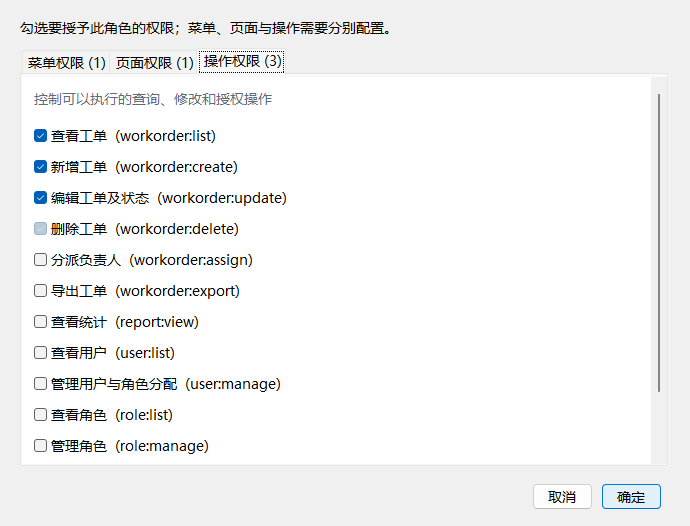
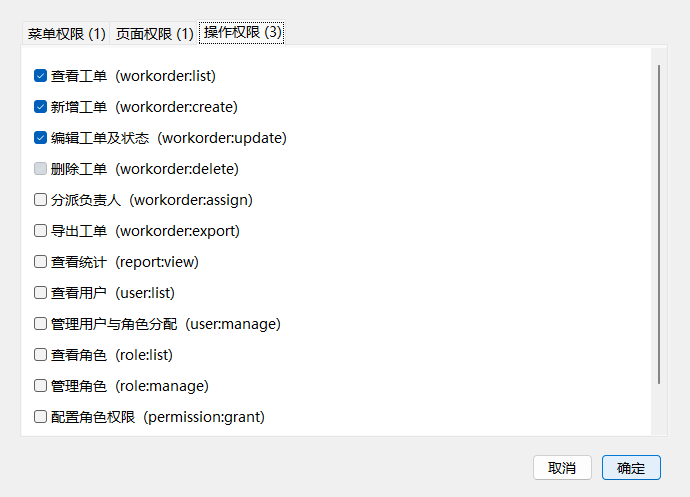
refine: simplify course UI and assignment scope

Changed region(s): [[0.0304, 0.0302, 0.5783, 0.8753], [0.7913, 0.9054, 0.9739, 0.9658]]

diff --git a/src/main/java/edu/campus/rbac/ui/CampusApplication.java b/src/main/java/edu/campus/rbac/ui/CampusApplication.java
@@ -173,36 +173,43 @@ public final class CampusApplication {
         revision++;
         main.removeAll();
         JPanel heading = new JPanel(new BorderLayout(0, 8)); heading.setOpaque(false);
-        JLabel label = new JLabel(title); label.setFont(label.getFont().deriveFont(Font.BOLD, 24));
+        JLabel label = new JLabel(title); label.setFont(label.getFont().deriveFont(Font.BOLD, 22));
         label.setForeground(INK); heading.add(label, BorderLayout.NORTH);
-        JLabel subtitle = new JLabel(description); subtitle.setForeground(MUTED);
-        heading.add(subtitle, BorderLayout.SOUTH); main.add(heading, BorderLayout.NORTH);
+        if (!description.isBlank()) {
+            JLabel subtitle = new JLabel(description); subtitle.setForeground(MUTED);
+            heading.add(subtitle, BorderLayout.SOUTH);
+        }
+        main.add(heading, BorderLayout.NORTH);
         JPanel body = new JPanel(new BorderLayout(0, 12)); body.setOpaque(false);
         main.add(body, BorderLayout.CENTER); main.revalidate(); main.repaint(); return body;
     }
 
     private void dashboard() {
-        JPanel body = page("欢迎，" + session.user().displayName(), "选择左侧菜单开始工作。当前权限来自角色的权限并集。");
-        JPanel identity = card("当前身份", "账号：" + session.user().username() + "    角色："
-                + roleDescription()
-                + "\n已授予 " + session.permissions().size() + " 项权限。权限调整后，点击左下方“刷新权限”更新界面。");
-        identity.setName("dashboard.identity"); body.add(identity, BorderLayout.NORTH);
-        JPanel capabilities = new JPanel(new GridLayout(2, 2, 14, 14)); capabilities.setOpaque(false);
+        JPanel body = page("工作台", "");
+        JPanel identity = card("当前账号", session.user().username() + "  ·  " + roleDescription()
+                + "  ·  " + session.permissions().size() + " 项权限");
+        identity.setName("dashboard.identity");
+        JPanel capabilities = new JPanel(new GridLayout(2, 2, 10, 10)); capabilities.setOpaque(false);
         capabilities.add(card("可访问页面", capabilityText("page:")));
         capabilities.add(card("工单协作", capabilityText("workorder:")));
         capabilities.add(card("用户与角色管理", capabilityText("user:", "role:", "permission:")));
         capabilities.add(card("统计与审计", capabilityText("report:", "audit:")));
-        body.add(capabilities);
-        JLabel help = new JLabel("提示：灰色按钮表示当前账号无权执行；将鼠标停留在按钮上可查看原因。");
-        help.setForeground(MUTED); body.add(help, BorderLayout.SOUTH);
+        JPanel overview = new JPanel(); overview.setOpaque(false);
+        overview.setLayout(new BoxLayout(overview, BoxLayout.Y_AXIS));
+        identity.setAlignmentX(Component.LEFT_ALIGNMENT);
+        identity.setMaximumSize(new Dimension(Integer.MAX_VALUE, identity.getPreferredSize().height));
+        capabilities.setAlignmentX(Component.LEFT_ALIGNMENT);
+        capabilities.setMaximumSize(new Dimension(Integer.MAX_VALUE, capabilities.getPreferredSize().height));
+        overview.add(identity); overview.add(Box.createVerticalStrut(10)); overview.add(capabilities);
+        body.add(overview, BorderLayout.NORTH);
     }
 
     private String capabilityText(String... prefixes) {
         List<String> labels = session.permissions().stream().sorted()
                 .filter(code -> Arrays.stream(prefixes).anyMatch(code::startsWith))
                 .map(code -> PERMISSION_LABELS.getOrDefault(code, "其他已授予能力"))
-                .distinct().map(label -> "• " + label).toList();
-        return labels.isEmpty() ? "当前角色暂未获得此类能力。" : String.join("\n", labels);
+                .distinct().toList();
+        return labels.isEmpty() ? "无" : String.join(" · ", labels);
     }
 
     private String roleDescription() {
@@ -212,7 +219,7 @@ public final class CampusApplication {
     }
 
     private void workOrders() {
-        JPanel body = page("工单管理", "搜索、分派与跟踪校园事务。选择表格中的一条工单后操作。");
+        JPanel body = page("工单管理", "");
         JPanel toolbar = toolbar(), search = toolbar(); JTextField query = new JTextField(22);
         query.setName("workorders.query"); query.setToolTipText("搜索工单标题或内容，按回车查询");
         JComboBox<String> filter = new JComboBox<>(new String[]{"全部状态", "待处理", "处理中", "已完成", "已关闭"});
@@ -273,12 +280,12 @@ public final class CampusApplication {
         controls.add(search); controls.add(toolbar);
         String capabilities = session.permissions().stream().filter(code -> code.startsWith("workorder:"))
                 .sorted().map(code -> PERMISSION_LABELS.getOrDefault(code, "其他工单能力")).collect(java.util.stream.Collectors.joining(" · "));
-        JLabel ability = new JLabel("当前可操作：" + (capabilities.isEmpty() ? "暂无工单权限" : capabilities));
+        JLabel ability = new JLabel("可操作：" + (capabilities.isEmpty() ? "无" : capabilities));
         ability.setName("workorders.capabilities"); ability.setForeground(ACCENT); ability.setBorder(new EmptyBorder(8, 8, 4, 8));
         JPanel abilityRow = new JPanel(new BorderLayout()); abilityRow.setOpaque(false); abilityRow.add(ability); controls.add(abilityRow);
         body.add(controls, BorderLayout.NORTH); body.add(new JScrollPane(table));
         JTextArea detail = new JTextArea(3, 30); detail.setEditable(false); detail.setLineWrap(true); detail.setWrapStyleWord(true);
-        detail.setName("workorders.detail"); detail.setText("选择一条工单，查看完整描述。");
+        detail.setName("workorders.detail"); detail.setText("请选择工单");
         detail.setBorder(new EmptyBorder(8, 10, 8, 10));
         JLabel detailHeading = new JLabel("工单详情"); detailHeading.setBorder(new EmptyBorder(0, 0, 6, 0));
         table.getSelectionModel().addListSelectionListener(e -> {
@@ -287,7 +294,7 @@ public final class CampusApplication {
                 WorkOrder selected = rows.get(table.convertRowIndexToModel(index));
                 detail.setText(selected.content()); detail.setCaretPosition(0);
                 detailHeading.setText("工单 #" + selected.id() + " · " + selected.title() + " · " + selected.status());
-            } else { detail.setText("选择一条工单，查看完整描述。"); detailHeading.setText("工单详情"); }
+            } else { detail.setText("请选择工单"); detailHeading.setText("工单详情"); }
         });
         JPanel detailPanel = new JPanel(new BorderLayout()); detailPanel.setOpaque(false);
         detailPanel.add(detailHeading, BorderLayout.NORTH); detailPanel.add(new JScrollPane(detail));
@@ -309,7 +316,7 @@ public final class CampusApplication {
     }
 
     private void users() {
-        JPanel body = page("用户管理", "管理账号、启停状态及用户角色。系统会保护最后一个完整管理员。");
+        JPanel body = page("用户管理", "");
         JPanel toolbar = toolbar(); DefaultTableModel model = model("编号", "用户名", "显示名称", "状态", "角色");
         JTable table = table(model); List<User> rows = new ArrayList<>(); String token = session.token();
         Runnable reload = () -> run(() -> services.users().list(token), data -> {
@@ -357,12 +364,12 @@ public final class CampusApplication {
     }
 
     private void roles() {
-        JPanel body = page("角色与权限", "通过角色关联权限。菜单、页面和操作权限分别授权。");
+        JPanel body = page("角色与权限", "");
         JPanel toolbar = toolbar(); DefaultTableModel model = model("编号", "角色编码", "角色名称");
         JTable table = table(model); table.setName("roles.table"); List<Role> rows = new ArrayList<>(); String token = session.token();
         JPanel permissionDetail = new JPanel(new BorderLayout(0, 12)); permissionDetail.setBackground(Color.WHITE);
         permissionDetail.setBorder(new EmptyBorder(16, 16, 16, 16));
-        JLabel summary = new JLabel("选择角色，查看已授予的权限"); summary.setName("roles.permission.summary");
+        JLabel summary = new JLabel("请选择角色"); summary.setName("roles.permission.summary");
         summary.setForeground(INK); summary.setFont(summary.getFont().deriveFont(Font.BOLD, 16));
         permissionDetail.add(summary, BorderLayout.NORTH);
         long[] selectionVersion = {0};
@@ -373,13 +380,13 @@ public final class CampusApplication {
             Component old = ((BorderLayout) permissionDetail.getLayout()).getLayoutComponent(BorderLayout.CENTER);
             if (old != null) permissionDetail.remove(old);
             if (selected < 0 || table.convertRowIndexToModel(selected) >= rows.size()) {
-                summary.setText("选择角色，查看已授予的权限"); permissionDetail.revalidate(); permissionDetail.repaint(); return;
+                summary.setText("请选择角色"); permissionDetail.revalidate(); permissionDetail.repaint(); return;
             }
             Role role = rows.get(table.convertRowIndexToModel(selected));
             summary.setText(role.name() + " · 正在读取权限…");
             run(() -> new PermissionChoices(services.roles().permissions(token), services.roles().permissionIds(token, role.id())), data -> {
                 if (selectionVersion[0] != expected) return; // 快速切换角色时，丢弃前一角色的数据。
-                summary.setText(role.name() + " · 已授予 " + data.selected().size() + " 项权限");
+                summary.setText(role.name() + " · " + data.selected().size() + " 项权限");
                 permissionDetail.add(permissionTabs(data, false, new LinkedHashMap<>()), BorderLayout.CENTER);
                 permissionDetail.revalidate(); permissionDetail.repaint();
             });
@@ -420,10 +427,7 @@ public final class CampusApplication {
                 Map<Long, JCheckBox> boxes = new LinkedHashMap<>();
                 JTabbedPane tabs = permissionTabs(data, true, boxes); tabs.setPreferredSize(new Dimension(650, 420));
                 tabs.setSelectedIndex(2);
-                JPanel editor = new JPanel(new BorderLayout(0, 10));
-                editor.add(new JLabel("勾选要授予此角色的权限；菜单、页面与操作需要分别配置。"), BorderLayout.NORTH);
-                editor.add(tabs);
-                if (dialog("配置权限 · " + role.name(), editor)) {
+                if (dialog("配置权限 · " + role.name(), tabs)) {
                     Set<Long> ids = checked(boxes);
                     change(() -> { services.roles().setPermissions(token, role.id(), ids); return true; }, reload);
                 }
@@ -438,11 +442,9 @@ public final class CampusApplication {
         JTabbedPane tabs = new JTabbedPane(); tabs.setName(editable ? "permissions.editor.groups" : "roles.permission.groups");
         String[] types = {"MENU", "PAGE", "ACTION"};
         String[] titles = {"菜单权限", "页面权限", "操作权限"};
-        String[] hints = {"控制左侧菜单是否显示", "控制能否进入相应页面", "控制可以执行的查询、修改和授权操作"};
         for (int i = 0; i < types.length; i++) {
             String type = types[i]; JPanel list = choicesPanel(); list.setBackground(Color.WHITE);
             list.setBorder(new EmptyBorder(12, 12, 12, 12)); list.setName("permissions.group." + type);
-            JLabel hint = new JLabel(hints[i]); hint.setForeground(MUTED); list.add(hint); list.add(Box.createVerticalStrut(12));
             int count = 0;
             for (Permission permission : data.permissions()) {
                 if (!type.equals(permission.type())) continue;
@@ -465,7 +467,7 @@ public final class CampusApplication {
     }
 
     private void reports() {
-        JPanel body = page("工单统计", "实时查看各处理状态下的工单数量。");
+        JPanel body = page("工单统计", "");
         JPanel toolbar = toolbar(); DefaultTableModel model = model("状态", "数量");
         String token = session.token();
         Runnable reload = () -> run(() -> services.reports().statistics(token), data -> {
@@ -477,7 +479,7 @@ public final class CampusApplication {
     }
 
     private void audit() {
-        JPanel body = page("审计日志", "追踪登录、授权变更、业务操作和被拒绝的请求。");
+        JPanel body = page("审计日志", "");
         JPanel toolbar = toolbar(); JTextField query = new JTextField(25);
         toolbar.add(new JLabel("关键字")); toolbar.add(query);
         DefaultTableModel model = model("编号", "时间", "操作人", "操作", "对象", "结果", "说明");
@@ -566,9 +568,9 @@ public final class CampusApplication {
         panel.setBackground(Color.WHITE); return panel;
     }
     private static JPanel card(String title, String description) {
-        JPanel panel = new JPanel(new BorderLayout(0, 10)); panel.setBackground(Color.WHITE);
-        panel.setBorder(new EmptyBorder(14, 18, 14, 18));
-        JLabel heading = new JLabel(title); heading.setFont(heading.getFont().deriveFont(Font.BOLD, 16)); heading.setForeground(INK);
+        JPanel panel = new JPanel(new BorderLayout(0, 6)); panel.setBackground(Color.WHITE);
+        panel.setBorder(new EmptyBorder(12, 14, 12, 14));
+        JLabel heading = new JLabel(title); heading.setFont(heading.getFont().deriveFont(Font.BOLD, 15)); heading.setForeground(INK);
         JTextArea text = new JTextArea(description); text.setEditable(false); text.setLineWrap(true); text.setWrapStyleWord(true);
         text.setForeground(MUTED); text.setOpaque(false); panel.add(heading, BorderLayout.NORTH); panel.add(text); return panel;
     }

diff --git a/src/test/java/edu/campus/rbac/AcceptanceTest.java b/src/test/java/edu/campus/rbac/AcceptanceTest.java
@@ -24,7 +24,17 @@ class AcceptanceTest {
     @Test void TC02_adminCanLogin(){Session s=services.authentication().login("admin","Demo@12345".toCharArray());assertTrue(s.permissions().contains("permission:grant"));assertFalse(s.token().isBlank());}
     @Test void TC03to05_viewerCanReadButCannotCreateOrDelete(){String t=login("viewer");List<WorkOrder> before=services.workOrders().list(t,"","");assertFalse(before.isEmpty());assertThrows(DomainException.class,()->services.workOrders().create(t,new WorkOrderInput("拒绝","test")));assertThrows(DomainException.class,()->services.workOrders().delete(t,before.get(0).id()));assertEquals(before,services.workOrders().list(t,"",""));}
     @Test void TC06to07_staffCreatePersistsButCannotDelete(){String t=login("staff");WorkOrder w=services.workOrders().create(t,new WorkOrderInput("维修灯具","教室 A101"));assertThrows(DomainException.class,()->services.workOrders().delete(t,w.id()));Services.Bundle reopened=ApplicationFactory.open(db);String other=reopened.authentication().login("staff","Demo@12345".toCharArray()).token();assertTrue(reopened.workOrders().list(other,"维修灯具","").stream().anyMatch(x->x.id()==w.id()));}
-    @Test void TC08to09_managerAssignsButCannotGrant(){String manager=login("manager");long id=services.workOrders().list(manager,"","").get(0).id();User assignee=services.workOrders().assignees(manager).stream().filter(u->u.username().equals("staff")).findFirst().orElseThrow();services.workOrders().assign(manager,id,assignee.id());assertEquals(assignee.id(),services.workOrders().list(manager,Long.toString(id),"").get(0).assigneeId());assertThrows(DomainException.class,()->services.roles().setPermissions(manager,1,Set.of()));}
+    @Test void TC08to09_managerAssignsButCannotGrantOrAssignSystemAdministrator(){
+        String manager=login("manager"),admin=login("admin");
+        long id=services.workOrders().list(manager,"","").get(0).id();
+        User assignee=services.workOrders().assignees(manager).stream().filter(u->u.username().equals("staff")).findFirst().orElseThrow();
+        assertFalse(services.workOrders().assignees(manager).stream().anyMatch(u->u.username().equals("admin")));
+        User systemAdministrator=services.users().list(admin).stream().filter(u->u.username().equals("admin")).findFirst().orElseThrow();
+        services.workOrders().assign(manager,id,assignee.id());
+        assertEquals(assignee.id(),services.workOrders().list(manager,Long.toString(id),"").get(0).assigneeId());
+        assertThrows(DomainException.class,()->services.workOrders().assign(manager,id,systemAdministrator.id()));
+        assertThrows(DomainException.class,()->services.roles().setPermissions(manager,1,Set.of()));
+    }
     @Test void TC10to13_grantAndRevokeApplyToExistingSession(){
         String a=login("admin"),s=login("staff");
         long r=role(a,"STAFF"),p=permission(a,"workorder:delete");

diff --git a/src/main/java/edu/campus/rbac/service/BusinessServices.java b/src/main/java/edu/campus/rbac/service/BusinessServices.java
@@ -34,16 +34,29 @@ public final class BusinessServices implements Services.WorkOrders, Services.Rep
     }
     @Override public List<User> assignees(String token){
         return access.read(token,"workorder:assignees","users",Set.of("workorder:assign"),(c,actor)->{
+            boolean canAssignSystemManagers=hasSystemManagement(c,actor);
             List<User> result=new ArrayList<>();try(PreparedStatement p=c.prepareStatement("SELECT id,username,display_name,active FROM users WHERE active=1 ORDER BY id");ResultSet r=p.executeQuery()){
-                while(r.next())result.add(new User(r.getLong(1),r.getString(2),r.getString(3),true,List.of()));}return List.copyOf(result);
+                while(r.next()){
+                    long candidate=r.getLong(1);
+                    if(canAssignSystemManagers||!hasSystemManagement(c,candidate))
+                        result.add(new User(candidate,r.getString(2),r.getString(3),true,List.of()));
+                }}return List.copyOf(result);
         });
     }
     @Override public void assign(String token,long id,Long assigneeId){
         access.write(token,"workorder:assign",Long.toString(id),Set.of("workorder:assign"),(c,actor)->{
-            if(assigneeId!=null)try(PreparedStatement p=c.prepareStatement("SELECT id FROM users WHERE id=? AND active=1")){p.setLong(1,assigneeId);try(ResultSet r=p.executeQuery()){if(!r.next())throw new DomainException("负责人不存在或已停用");}}
+            if(assigneeId!=null)try(PreparedStatement p=c.prepareStatement("SELECT id FROM users WHERE id=? AND active=1")){p.setLong(1,assigneeId);try(ResultSet r=p.executeQuery()){
+                if(!r.next())throw new DomainException("负责人不存在或已停用");
+                if(!hasSystemManagement(c,actor)&&hasSystemManagement(c,assigneeId))
+                    throw new DomainException("没有权限向系统管理员分派工单");
+            }}
             try(PreparedStatement p=c.prepareStatement("UPDATE work_orders SET assignee_id=?,updated_at=? WHERE id=?")){
                 if(assigneeId==null)p.setNull(1,Types.INTEGER);else p.setLong(1,assigneeId);p.setString(2,Instant.now().toString());p.setLong(3,id);changed(p.executeUpdate());}return null;
         });
+    }
+    /** 依据实际授权识别系统管理能力，不依赖 ADMIN 角色名称。 */
+    private static boolean hasSystemManagement(Connection connection,long userId)throws SQLException{
+        return Access.effectivePermissions(connection,userId).contains("permission:grant");
     }
     @Override public void changeStatus(String token,long id,String status){
         access.write(token,"workorder:status",Long.toString(id),Set.of("workorder:update"),(c,actor)->{

diff --git a/docs/TEST_REPORT.md b/docs/TEST_REPORT.md
@@ -62,7 +62,7 @@ java "-Dfile.encoding=UTF-8" -jar target\campus-work-order-rbac.jar --help
 | TC05 VIEWER 不能删除 | 通过 | AcceptanceTest |
 | TC06 STAFF 新增并持久 | 通过 | AcceptanceTest 重开数据库验证 |
 | TC07 STAFF 不能删除 | 通过 | AcceptanceTest |
-| TC08 MANAGER 分派 | 通过 | AcceptanceTest |
+| TC08 MANAGER 分派 | 通过 | AcceptanceTest：可分派 STAFF，负责人列表不含 ADMIN，直调 Service 分派 ADMIN 被拒绝 |
 | TC09 MANAGER 不能配置权限 | 通过 | AcceptanceTest、SecurityTest |
 | TC10 ADMIN 给 STAFF 增加删除权 | 通过 | AcceptanceTest、GuiDatabaseTest 权限弹窗 |
 | TC11 刷新/旧会话获得新增权限 | 通过 | AcceptanceTest、GuiDatabaseTest 按钮启用 |

diff --git a/docs/COURSE_REPORT.md b/docs/COURSE_REPORT.md
@@ -52,7 +52,7 @@ flowchart LR
 | 角色 | 初始能力 | 工单页典型效果 |
 |---|---|---|
 | ADMIN | 全部菜单、页面、业务和管理能力 | 所有按钮可用，可配置角色权限 |
-| MANAGER | 工单维护、分派、导出和统计 | 可新增、编辑、分派、改状态、导出，不可删除 |
+| MANAGER | 工单维护、分派、导出和统计 | 可新增、编辑、分派普通用户、改状态、导出，不可删除或向系统管理员分派 |
 | STAFF | 查看、新增、编辑和改状态 | 删除、分派、导出按钮禁用 |
 | VIEWER | 查看工单 | 只有查询可用 |
 
